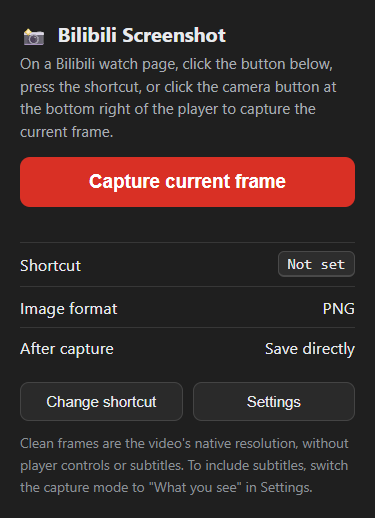
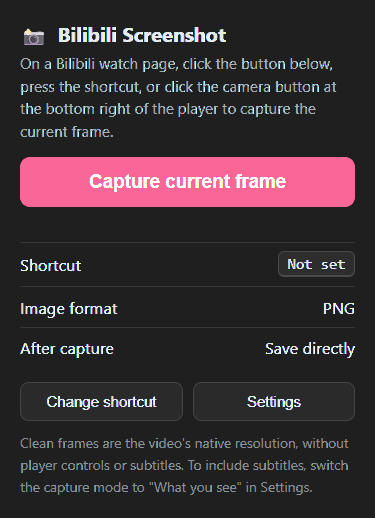
Add files via upload

diff --git a/extension/theme.css b/extension/theme.css
@@ -17,8 +17,8 @@
   --warn-border: #f0d98c;
   --ok: #1e8e3e;
   --err: #c0392b;
-  --accent: #cc0000;
-  --accent-hover: #ee0000;
+  --accent: #fb6699;
+  --accent-hover: #fc85ad;
   --disabled-bg: #cccccc;
 }
 
@@ -39,8 +39,8 @@
     --warn-border: #6b5a22;
     --ok: #6dd58c;
     --err: #f28b82;
-    --accent: #d93025;
-    --accent-hover: #ea4335;
+    --accent: #fb6699;
+    --accent-hover: #fc85ad;
     --disabled-bg: #444444;
   }
 }
